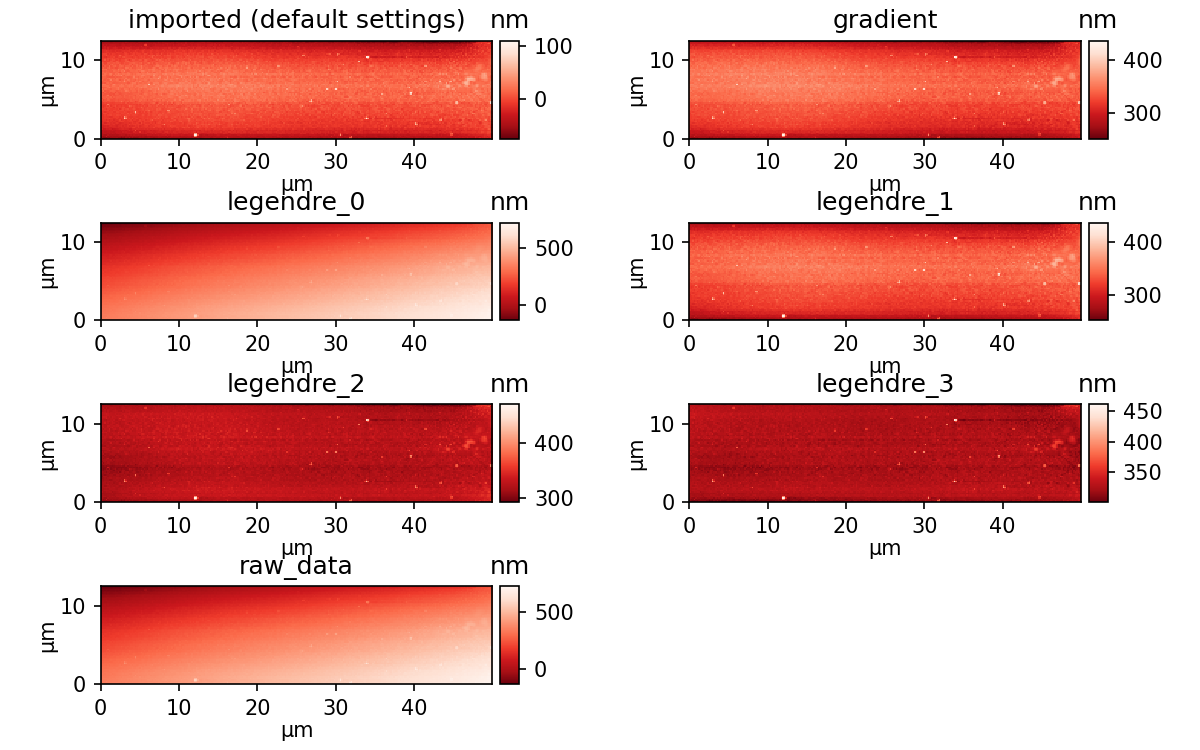
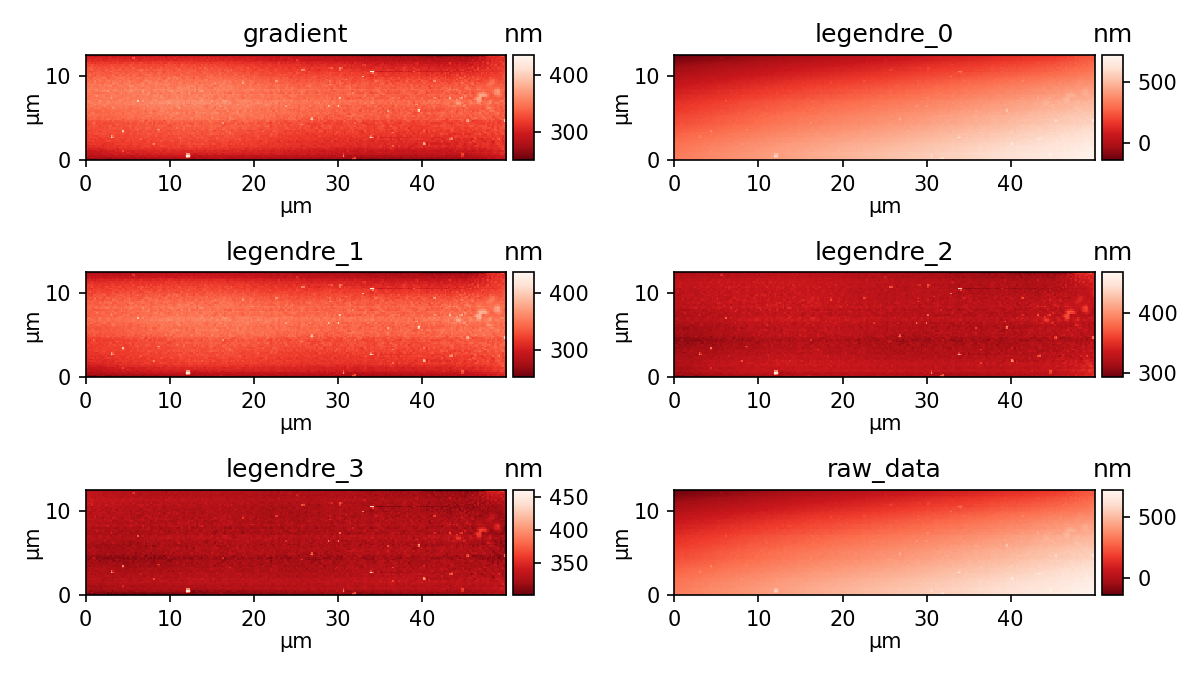
updated background correction example image

diff --git a/examples/example01_background_correction.py b/examples/example01_background_correction.py
@@ -22,17 +22,16 @@ measurement.comment = "imported (default settings)"
 #     fig = measurement.create_plot()
 #     fig.show()
 
-correction_summary_fig, axes = plt.subplots(4, 2, dpi=150, figsize=(8, 5))
+correction_summary_fig, axes = plt.subplots(3, 2, dpi=150, figsize=(8, 4.5))
 
 ax_list = axes.flatten()
-measurement.set_topography_to_axes(ax_list[0], add_id=False)
 
 for i, correction_type in enumerate(BGCorrectionType):
     measurement.correct_background(correction_type,keep_offset=True)
     measurement.comment = correction_type.name
-    measurement.set_topography_to_axes(ax_list[i+1], add_id=False)
+    measurement.set_topography_to_axes(ax_list[i], add_id=False)
 
-for ax in ax_list[len(BGCorrectionType)+1:]:
+for ax in ax_list[len(BGCorrectionType):]:
     ax.remove()
 correction_summary_fig.tight_layout()
 correction_summary_fig.show()
